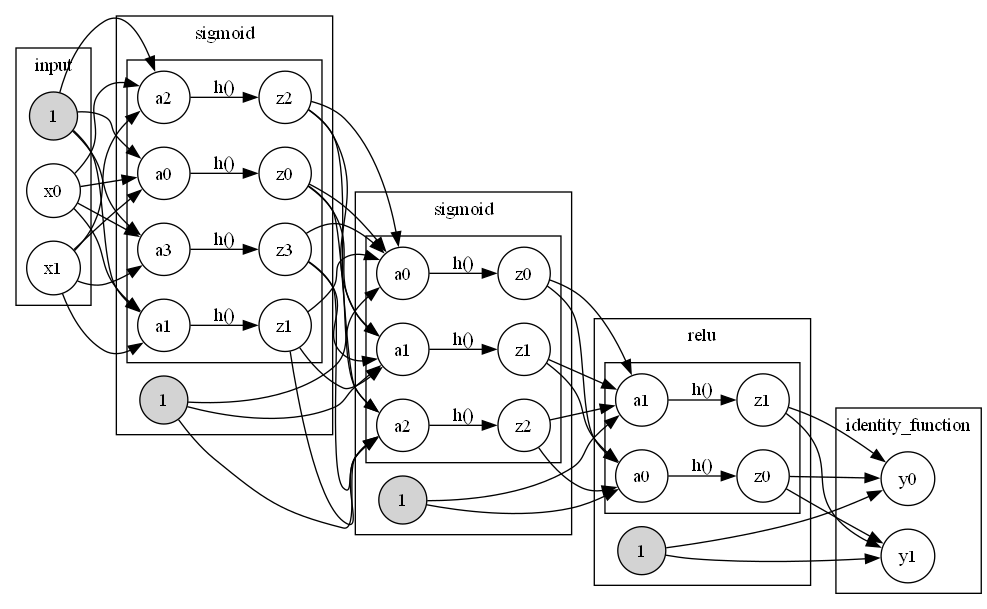
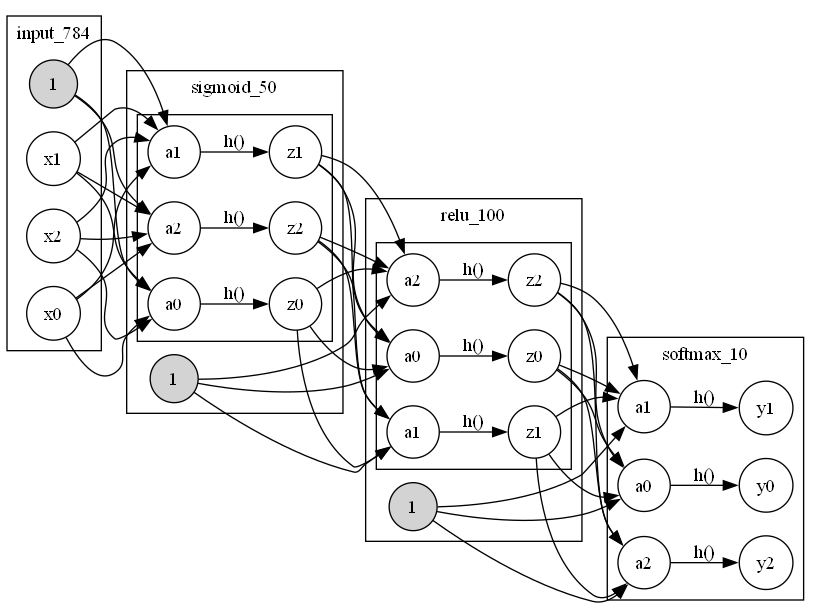
123456

diff --git a/deep_learning_from_scratch/ch3/t.py b/deep_learning_from_scratch/ch3/t.py
@@ -5,6 +5,7 @@ PATH_PROJECT = PATH_PY.parent.parent
 sys.path.append(PATH_PROJECT.__str__())
 
 from typing import Callable,Union
+import pickle
 import util
 import numpy as np
 import graphviz
@@ -49,6 +50,9 @@ class Network:
 
         if not (input_val.ndim == 1):
             raise ValueError(f'input ndim should be 1.')
+        
+        if not (len(self.layers) > 2):
+            raise IndexError('The list of layers must be at least 2 in length.')
 
         input_len = self.layers[0]['input_cnt']
         if not (input_len == len(input_val)):
@@ -67,29 +71,35 @@ class Network:
 
         return temp
     
-    def draw(self,filepath:Union[str,Path,None]='out.png',view:bool=True)->str:
+    def draw(self,filepath:Union[str,Path,None]=None,view:bool=True)->str:
         if not (len(self.layers) > 2):
             raise IndexError(f"The list of layers must be at least 2 in length.")
         
+        ENGINE = 'dot'
+        DIRECTION = 'LR'
+        MAX_NODE_VIEW = 3
+        
         #set save filepath
-        filepath = Path(Path(__file__).parent,filepath).__str__()
+        filepath = Path(Path(__file__).parent,'out.png').__str__() if filepath is None else filepath.__str__()
 
         #set graphviz config
-        engine = 'dot'
-        graph = graphviz.Digraph(engine=engine)
-        DIRECTION = 'LR'
+        graph = graphviz.Digraph(engine=ENGINE)
         graph.attr(**{'rankdir':DIRECTION,'compound':'true','labelloc':'t', 'center':'true','rank':'same'})
 
         #set node config
         nodes = []
         node_cnt = self.layers[0]['input_cnt']
+        node_real_cnt = node_cnt
+        node_cnt = MAX_NODE_VIEW if node_cnt >= MAX_NODE_VIEW else node_cnt
         node_name = 'input'
-        nodes.append({'node_name':node_name,'node_cnt':node_cnt,'node_activation':''})
+        nodes.append({'node_name':node_name,'node_cnt':node_cnt,'node_activation':'','node_real_cnt':node_real_cnt})
         for idx, layer in enumerate(self.layers):
             node_cnt = layer['output_cnt']
+            node_real_cnt = node_cnt
+            node_cnt = MAX_NODE_VIEW if node_cnt >= MAX_NODE_VIEW else node_cnt
             node_activation = layer['activation_name']
             node_name = f'hidden{idx+1}'
-            nodes.append({'node_name':node_name,'node_cnt':node_cnt,'node_activation':node_activation})
+            nodes.append({'node_name':node_name,'node_cnt':node_cnt,'node_activation':node_activation,'node_real_cnt':node_real_cnt})
         nodes[-1]['node_name'] = 'output'
         #node : [{'node_name': 'input', 'node_cnt': 2, 'node_activation': ''}, {'node_name': 'hidden1', 'node_cnt': 3, 'node_activation': 'sigmoid'}, {'node_name': 'hidden2', 'node_cnt': 2, 'node_activation': 'sigmoid'}, {'node_name': 'output', 'node_cnt': 2, 'node_activation': 'identity_function'}]
         
@@ -98,17 +108,18 @@ class Network:
             node_name = node['node_name']
             node_activation = node['node_activation'] 
             node_cnt = node['node_cnt']
+            node_real_cnt = node['node_real_cnt']
             with graph.subgraph(name=node_name) as n:
                 n.node_attr = {'shape':'circle'}
                 
                 if node_name == 'input':
-                    n.graph_attr = {'cluster':'true','label':node_name}
+                    n.graph_attr = {'cluster':'true','label':f'{node_name}_{node_real_cnt}'}
                     n.node('ic', '1', style='filled', fillcolor='lightgray')
                     for ni in range(node_cnt):
                         n.node(f'i{ni}', f'x{ni}') 
 
                 elif 'hidden' in node_name:
-                    n.graph_attr = {'cluster':'true','label':node_activation}
+                    n.graph_attr = {'cluster':'true','label':f'{node_activation}_{node_real_cnt}'}
                     n.node(f'{node_name}c', '1',style='filled',fillcolor='lightgray')
                     for ni in range(node_cnt):
                         with n.subgraph(name=f'{node_name}n1') as nsub:  
@@ -120,13 +131,14 @@ class Network:
                             nsub.edge(node_input,node_output,label='h()')   
 
                 elif node_name == 'output':
-                    n.graph_attr = {'cluster':'true','label':node_activation}
+                    n.graph_attr = {'cluster':'true','label':f'{node_activation}_{node_real_cnt}'}
                     for ni in range(node_cnt):
+                        n.node(f'ao{ni}',f'a{ni}')
                         n.node(f'o{ni}',f'y{ni}')
+                        n.edge(f'ao{ni}',f'o{ni}',label='h()')
 
                 else:
                     pass
-
 
         #set edge config
         for i,o in pairwise(nodes):
@@ -144,7 +156,7 @@ class Network:
   
             elif output_node_name == 'output':
                 edge_start = [f'{input_node_name}c'] + [f'{input_node_name}n{ni}z' for ni in range(input_node_cnt)]
-                edge_end = [f'o{ni}' for ni in range(output_node_cnt)]
+                edge_end = [f'ao{ni}' for ni in range(output_node_cnt)]
             else:
                 edge_start = [f'{input_node_name}c'] + [f'{input_node_name}n{ni}z' for ni in range(input_node_cnt)]
                 edge_end = [f'{output_node_name}n{ni}a' for ni in range(output_node_cnt)]
@@ -153,21 +165,33 @@ class Network:
                 for e_e in edge_end:
                     graph.edge(e_s,e_e)
                 
-
         #draw graph
-        graph.render(engine=engine, outfile=filepath, format='png', view=view)
+        graph.render(engine=ENGINE, outfile=filepath, format='png', view=view)
         
         return graph.source
+    
+    def dump(self,filepath=None):
+        filepath = Path(Path(__file__).parent,'network.pickle').__str__() if filepath is None else filepath.__str__()
+        with open(filepath,'wb') as f:
+            pickle.dump(self,f)
+
+    def load(self,filepath=None):
+        filepath = Path(Path(__file__).parent,'network.pickle').__str__() if filepath is None else filepath.__str__()
+        with open(filepath,'rb') as f:
+            self = pickle.load(f)
+        return self
 
 network = Network()
-network.add_layers(*(2,4,util.activation_func.sigmoid))        
-network.add_layers(*(4,3,util.activation_func.sigmoid))   
-network.add_layers(*(3,2,util.activation_func.relu)) 
-network.add_layers(*(2,2,util.activation_func.identity_function))
+#network = network.load()
+network.add_layers(*(784,50,util.activation_func.sigmoid))          
+network.add_layers(*(50,100,util.activation_func.relu)) 
+network.add_layers(*(100,10,util.activation_func.softmax))
 
 #input_val = np.array([1,2])
 #predict_val = network.predict(input_val,verbose=True)
 #print(predict_val)
+
+#network.dump()
 print(network.draw())
 
 

diff --git a/deep_learning_from_scratch/util/__init__.py b/deep_learning_from_scratch/util/__init__.py
@@ -19,3 +19,7 @@ class activation_func:
     #for output
     def identity_function(x):
         return x
+    
+    def softmax(x):
+        c = np.max(x)  #prevent overflow
+        return np.exp(x - c)/np.sum(np.exp(x - c))
